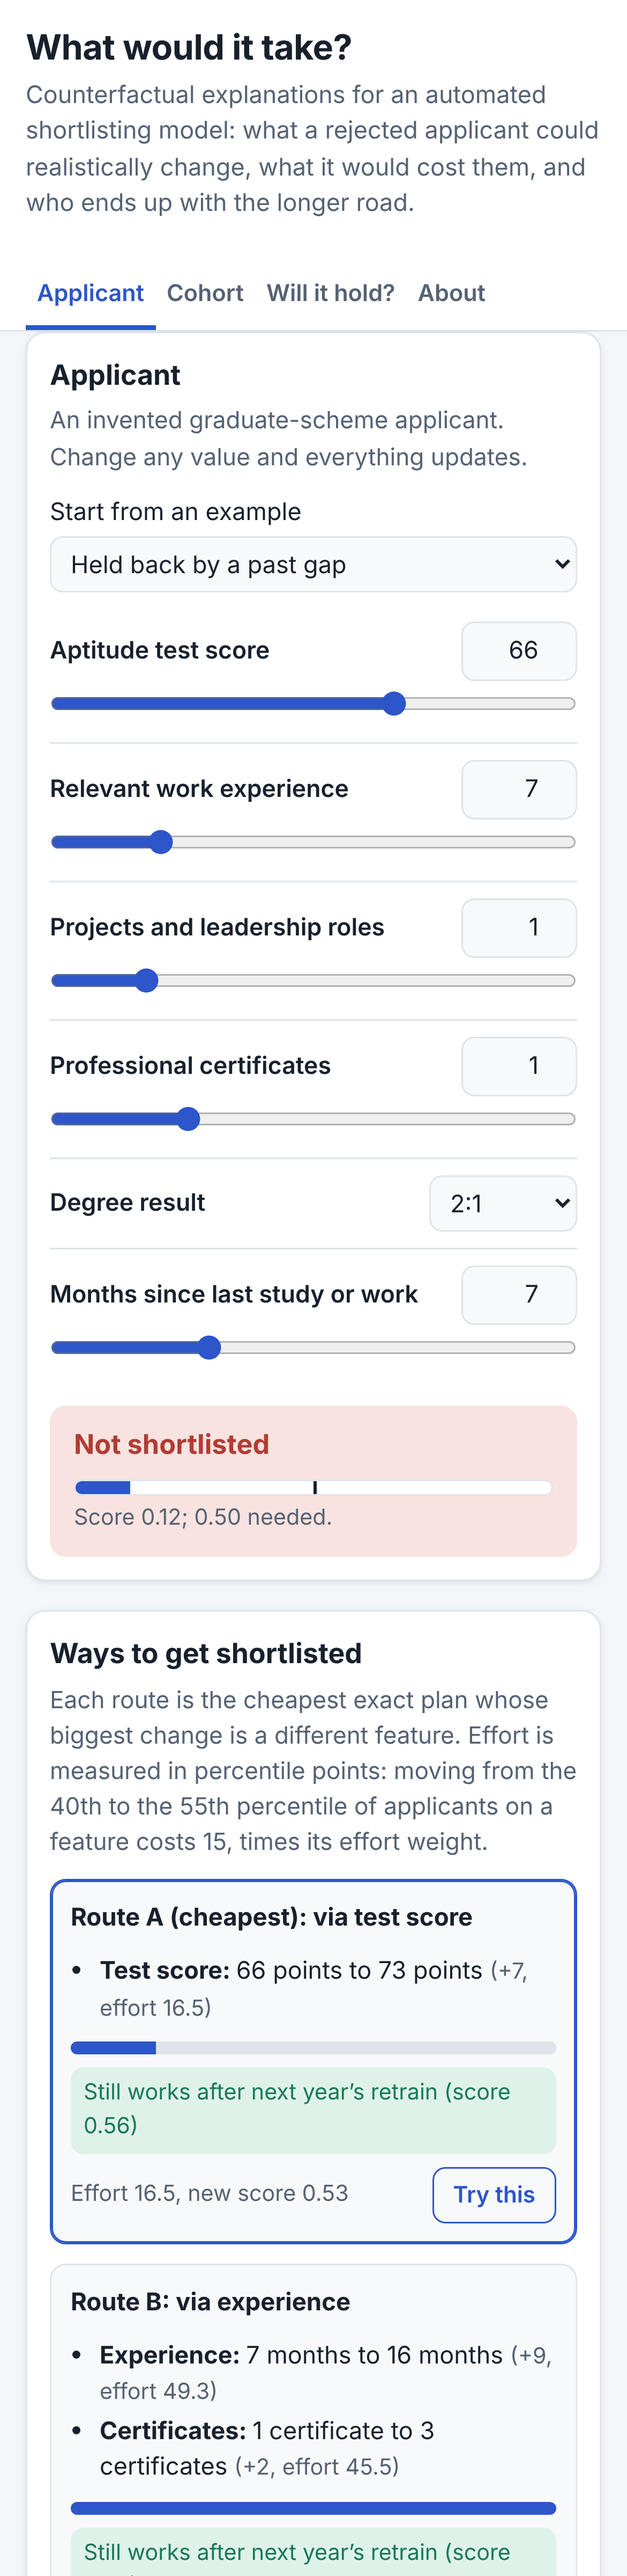
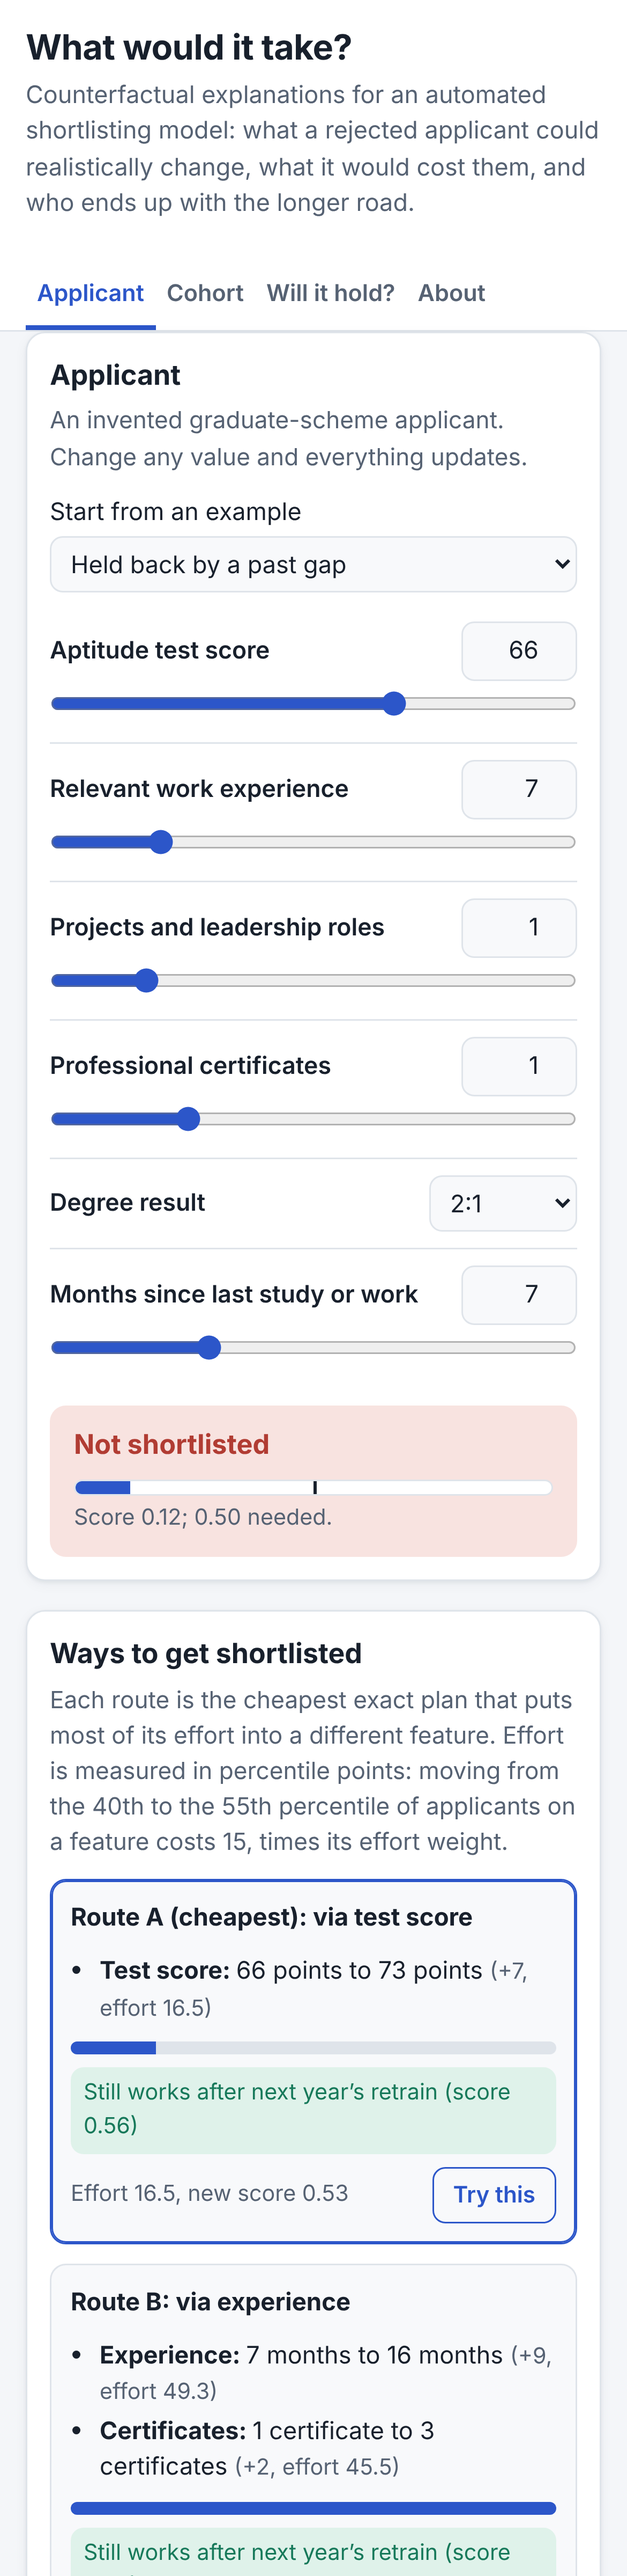
Loop 5: fresh-clone check: README commands run as written, dead code removed, clearer route wording, line counts and next steps

Changed region(s): [[0.0923, 0.6562, 0.9231, 0.7188]]

diff --git a/app/index.html b/app/index.html
@@ -56,8 +56,6 @@ select:focus-visible, input:focus-visible, button:focus-visible { outline: 2px s
 .field input[type="number"] { width: 72px; text-align: right; }
 .field select { min-width: 92px; }
 .field input[type="range"] { width: 100%; margin: 6px 0 0; accent-color: var(--accent); }
-.chip { display: inline-block; font-size: 0.75rem; font-weight: 600; padding: 1px 8px; border-radius: 999px; background: var(--accent-soft); color: var(--accent); white-space: nowrap; }
-.chip.fixed { background: var(--fixed-soft); color: var(--fixed); }
 .preset { margin-bottom: 8px; }
 .preset select { width: 100%; margin-top: 4px; }
 .decision { margin-top: 12px; padding: 12px 14px; border-radius: 10px; border: 1px solid var(--line); }
@@ -217,7 +215,7 @@ footer.foot { color: var(--muted); font-size: 0.85rem; padding-bottom: 30px; }
       <div class="col">
         <section class="card" id="card-plans" aria-labelledby="h-plans">
           <h2 id="h-plans">Ways to get shortlisted</h2>
-          <p class="hint">Each route is the cheapest exact plan whose biggest change is a different feature. Effort is measured in percentile points: moving from the 40th to the 55th percentile of applicants on a feature costs 15, times its effort weight.</p>
+          <p class="hint">Each route is the cheapest exact plan that puts most of its effort into a different feature. Effort is measured in percentile points: moving from the 40th to the 55th percentile of applicants on a feature costs 15, times its effort weight.</p>
           <div id="plans"></div>
         </section>
         <section class="card" id="card-why" aria-labelledby="h-why">
@@ -1069,7 +1067,6 @@ if (typeof module !== 'undefined' && module.exports) module.exports = API;
 
 (function () {
   'use strict';
-  const M = API;
   const $ = function (id) { return document.getElementById(id); };
   const svgNS = 'http://www.w3.org/2000/svg';
 

diff --git a/README.md b/README.md
@@ -16,7 +16,7 @@ Everything is synthetic and runs offline. It is a learning tool about explanatio
 
 Download or clone this branch, then double-click `app/index.html`. It opens in any modern browser, needs no internet connection and sends nothing anywhere.
 
-- **One applicant:** pick an example or set the six features yourself. You get the decision, up to one route to being shortlisted per feature that can change (each the exact cheapest plan whose biggest change is that feature), the Shapley values behind the score, and a decision map of any two features with the routes drawn on it. "Try this" applies a route.
+- **One applicant:** pick an example or set the six features yourself. You get the decision, up to one route to being shortlisted per feature that can change (each the exact cheapest plan that puts most of its effort into that feature), the Shapley values behind the score, and a decision map of any two features with the routes drawn on it. "Try this" applies a route.
 - **What counts as a realistic change:** which features can move, by how much and how hard each is, the most features a route may change and a safety margin. Degree result and past gaps are fixed by default.
 - **What the applicant would be told:** a plain-English notice built from the score, the three biggest Shapley drags (flagging the ones that cannot change), every route phrased as a counterfactual ("an aptitude test score of 73 instead of 66") and how many routes survive next year's retrain. One click copies it.
 - **Save or share this setup:** download the applicant, rules and retrain settings as a JSON file, load one back, or copy a link that carries the setup. The same file works with the Python companion (`--setup`).
@@ -46,8 +46,8 @@ Across 20 retrains on a same-sized fresh pool, 34% of the cheapest routes still 
 Python 3.9 or later, standard library only. From the repository root:
 
 ```bash
-python3 -m whatwouldittake explain --preset "Near miss" --notice
-python3 -m whatwouldittake explain --setup what-would-it-take-setup.json   # a setup downloaded from the app
+python3 -m whatwouldittake explain --preset "Near miss" --notice --save-setup setup.json
+python3 -m whatwouldittake explain --setup setup.json --weight test=2   # or a setup downloaded from the app
 python3 -m whatwouldittake explain --test 62 --experience 9 --projects 3 --certs 1 --degree Third --gap 3 --weight experience=2
 python3 -m whatwouldittake sample --n 40 --out applicants.csv
 python3 -m whatwouldittake plans applicants.csv --out plans.csv --notices notices
@@ -74,9 +74,12 @@ The agreement tests run the app's model in Node.js and check that the Python por
 
 | Part | Language | Lines (approx.) | Does |
 |---|---|---|---|
-| `app/index.html` | HTML, CSS, JavaScript | 1,220 | The whole interactive tool, offline. Model logic sits between `MODEL START` and `MODEL END`. |
-| `whatwouldittake/` | Python | 780 | The same model, plus batch routes for a CSV of applicants and audit reports. |
-| `tests/` | JavaScript and Python | 630 | Exactness against brute force, Shapley properties, cross-language agreement, CLI and browser tests. |
+| `app/index.html` | HTML, CSS, JavaScript | 2,020 (about 740 of model logic, 150 of CSS, the rest layout and drawing) | The whole interactive tool, offline. Model logic sits between `MODEL START` and `MODEL END` so Node.js can run it. |
+| `whatwouldittake/` | Python (standard library) | 1,390 (740 model, 640 command line) | The same model, line for line, plus batch routes and notices for a CSV of applicants, audit reports and the many-retrain `hold` analysis. |
+| `tests/` | JavaScript and Python | 970 | Exactness against brute force, Shapley against the textbook definition, the score bound, cross-language agreement, the command line and the browser UI. |
+| `docs/make_screenshots.py` | Python (Playwright) | 40 | Regenerates the screenshots. |
+
+The browser app is for exploring one applicant and one retrain at a time. Python does the batch work: a CSV of applicants in, a CSV of routes and one notice per person out, and the 20-retrain robustness check, which the browser would only do one retrain at a time.
 
 ## How it works
 
@@ -97,4 +100,5 @@ The agreement tests run the app's model in Node.js and check that the Python por
 
 ## What could come next
 
-- Let the user upload their own model as a set of trees.
+- **Bring your own model.** Accept any tree ensemble exported as JSON (for example from scikit-learn or XGBoost), since the exact search and the Shapley shortcut only need the trees' split points and leaf values.
+- **Routes that survive by design.** Instead of a flat safety margin, search for the cheapest route that still works in, say, 18 of 20 retrained models, which would ask for extra effort only where the line actually moves.
